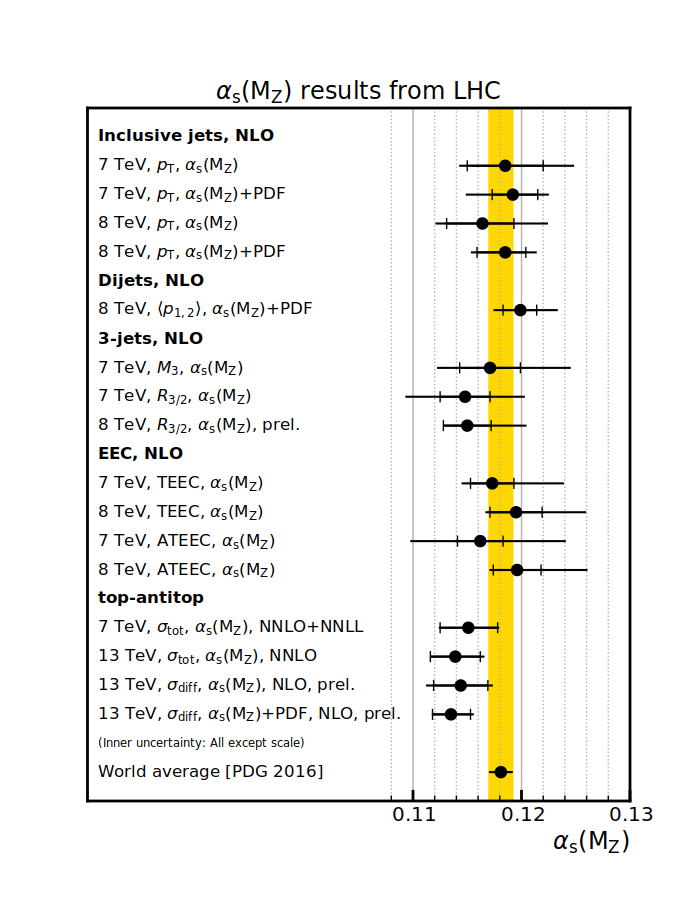
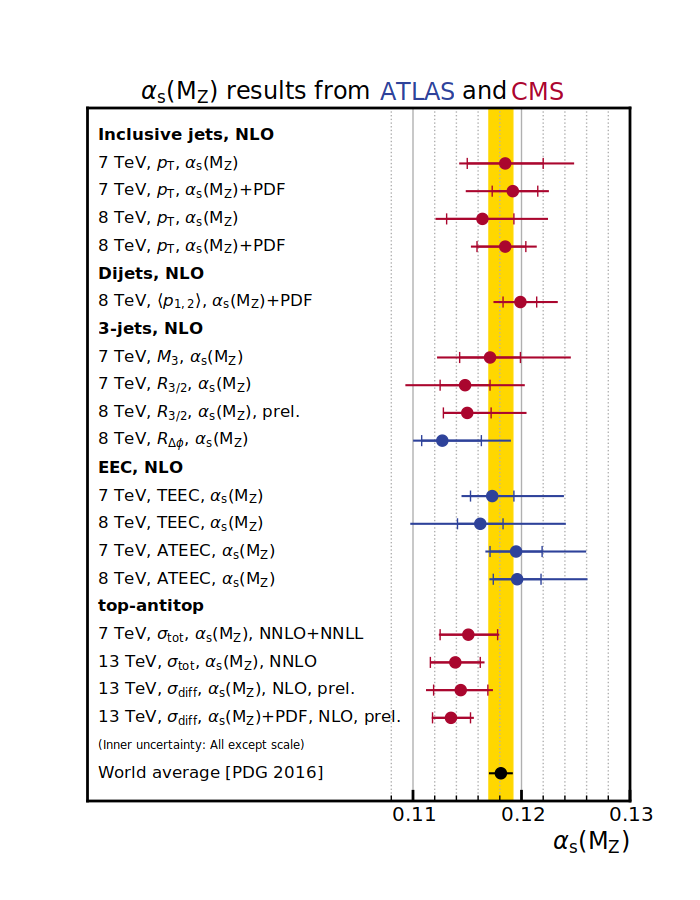
Fix asmz plot

diff --git a/tools/plotting/asmz_lhc.py b/tools/plotting/asmz_lhc.py
@@ -37,26 +37,46 @@ class ScalarFormatterForceFormat(ScalarFormatter):
 
 
 # Some global definitions 0.1181, 11
+_myred = '#aa062e'
+_myblue = '#2e429a'
 _asmz_label = r'$\alpha_\mathrm{s}(\mathrm{M}_\mathrm{Z})$'
 _asmz_dlim = 0.0800
 _text_dlim = 0.0810
 _asmz_ulim = 0.1300
-_asmz = [0.1181, 0.1135, 0.1144, 0.1139, 0.1151,
-         0.1196, 0.1162, 0.1195, 0.1173,
-         0.1150, 0.1148, 0.1171, 0.1199, 0.1185, 0.1164, 0.1192, 0.1185]
-_ypos = [1, 3, 4, 5, 6, 8, 9, 10, 11, 13, 14, 15, 17, 19, 20, 21, 22]
-_dasmz_oth_up = [0, 18, 25, 23, 27,
-                 22, 21, 24, 20,
-                 22, 23, 28, 15, 19, 29, 23, 35]
-_dasmz_oth_dn = [0, 17, 25, 23, 26,
-                 22, 21, 24, 20,
-                 22, 23, 28, 16, 26, 33, 19, 35]
-_dasmz_scl_up = [11, 11, 16, 14, 9,
-                 61, 76, 60, 63,
-                 50, 50, 69, 31, 22, 53, 24, 53]
-_dasmz_scl_dn = [11, 5, 20, 1, 8,
-                 13, 61, 15, 20,
-                 0, 50, 40, 19, 18, 28, 39, 24]
+_ypos = [1, 3, 4, 5, 6, 8, 9, 10, 11, 13, 14, 15, 16, 18, 20, 21, 22, 23]
+_pdg = [1, 0, 0, 0, 0, 0, 0, 0, 0, 0, 0, 0, 0, 0, 0, 0, 0, 0]
+_cms = [0, 1, 1, 1, 1, 0, 0, 0, 0, 0, 1, 1, 1, 1, 1, 1, 1, 1]
+_atlas = [0, 0, 0, 0, 0, 1, 1, 1, 1, 1, 0, 0, 0, 0, 0, 0, 0, 0]
+_asmz = [0.1181,
+         0.1135, 0.1144, 0.1139, 0.1151,
+         0.1196, 0.1195, 0.1162, 0.1173,
+         0.1127,
+         0.1150, 0.1148, 0.1171, 0.1199,
+         0.1185, 0.1164, 0.1192, 0.1185]
+_dasmz_oth_up = [0,
+                 18, 25, 23, 27,
+                 22, 24, 21, 20,
+                 36,
+                 22, 23, 28, 15,
+                 19, 29, 23, 35]
+_dasmz_oth_dn = [0,
+                 17, 25, 23, 26,
+                 22, 24, 21, 20,
+                 19,
+                 22, 23, 28, 16,
+                 26, 33, 19, 35]
+_dasmz_scl_up = [11,
+                 11, 16, 14, 9,
+                 61, 60, 76, 63,
+                 52,
+                 50, 50, 69, 31,
+                 22, 53, 24, 53]
+_dasmz_scl_dn = [11,
+                 5, 20, 1, 8,
+                 13, 15, 61, 20,
+                 19,
+                 0, 50, 40, 19,
+                 18, 28, 39, 24]
 
 gs = gridspec.GridSpec(1, 1)
 fig = plt.figure(figsize=(7, 9))
@@ -71,7 +91,10 @@ ax.set_xticks([0.108, 0.112, 0.114, 0.116, 0.118,
 ax.tick_params(direction='in', which='both', labelsize='x-large')
 ax.tick_params(axis='x', which='minor', length=4)
 ax.tick_params(axis='x', which='major', length=8)
-ax.set_title('%s results from LHC' % _asmz_label, fontsize='xx-large')
+ax.set_title('%s results from            and         ' %
+             _asmz_label, fontsize='xx-large')
+ax.text(0.1070, 25.3, 'ATLAS', color=_myblue, fontsize='xx-large')
+ax.text(0.1190, 25.3, 'CMS', color=_myred, fontsize='xx-large')
 ax.set_xlim([_asmz_dlim, _asmz_ulim])
 ax.set_ylim([0, _ypos[-1]+2])
 ax.set_xlabel('%s' % _asmz_label, horizontalalignment='right',
@@ -81,7 +104,7 @@ ax.set_xlabel('%s' % _asmz_label, horizontalalignment='right',
 # ax.xaxis.set_major_formatter(xfmt)
 
 #_ypos = np.array(_ypos)-0.5
-ax.text(_text_dlim, 23, 'Inclusive jets, NLO',
+ax.text(_text_dlim, 24, 'Inclusive jets, NLO',
         fontsize='large', fontweight='bold', va='center')
 ax.text(_text_dlim,
         _ypos[-1], r'7 TeV, $p_\mathrm{T}$, $\alpha_\mathrm{s}(\mathrm{M}_\mathrm{Z})$', fontsize='large', va='center')
@@ -91,11 +114,11 @@ ax.text(_text_dlim,
         _ypos[-3], r'8 TeV, $p_\mathrm{T}$, $\alpha_\mathrm{s}(\mathrm{M}_\mathrm{Z})$', fontsize='large', va='center')
 ax.text(_text_dlim,
         _ypos[-4], r'8 TeV, $p_\mathrm{T}$, $\alpha_\mathrm{s}(\mathrm{M}_\mathrm{Z})$+PDF', fontsize='large', va='center')
-ax.text(_text_dlim, 18, 'Dijets, NLO', fontsize='large',
+ax.text(_text_dlim, 19, 'Dijets, NLO', fontsize='large',
         fontweight='bold', va='center')
 ax.text(_text_dlim,
         _ypos[-5], r'8 TeV, $\left<p_\mathrm{1,2}\right>$, $\alpha_\mathrm{s}(\mathrm{M}_\mathrm{Z})$+PDF', fontsize='large', va='center')
-ax.text(_text_dlim, 16, '3-jets, NLO', fontsize='large',
+ax.text(_text_dlim, 17, '3-jets, NLO', fontsize='large',
         fontweight='bold', va='center')
 ax.text(_text_dlim,
         _ypos[-6], r'7 TeV, $M_3$, $\alpha_\mathrm{s}(\mathrm{M}_\mathrm{Z})$', fontsize='large', va='center')
@@ -103,26 +126,28 @@ ax.text(_text_dlim,
         _ypos[-7], r'7 TeV, $R_{3/2}$, $\alpha_\mathrm{s}(\mathrm{M}_\mathrm{Z})$', fontsize='large', va='center')
 ax.text(_text_dlim,
         _ypos[-8], r'8 TeV, $R_{3/2}$, $\alpha_\mathrm{s}(\mathrm{M}_\mathrm{Z})$, prel.', fontsize='large', va='center')
+ax.text(_text_dlim,
+        _ypos[-9], r'8 TeV, $R_{\Delta\phi}$, $\alpha_\mathrm{s}(\mathrm{M}_\mathrm{Z})$', fontsize='large', va='center')
 ax.text(_text_dlim, 12, r'EEC, NLO',
         fontsize='large', fontweight='bold', va='center')
 ax.text(_text_dlim,
-        _ypos[-9], r'7 TeV, TEEC, $\alpha_\mathrm{s}(\mathrm{M}_\mathrm{Z})$', fontsize='large', va='center')
+        _ypos[-10], r'7 TeV, TEEC, $\alpha_\mathrm{s}(\mathrm{M}_\mathrm{Z})$', fontsize='large', va='center')
 ax.text(_text_dlim,
-        _ypos[-10], r'8 TeV, TEEC, $\alpha_\mathrm{s}(\mathrm{M}_\mathrm{Z})$', fontsize='large', va='center')
+        _ypos[-11], r'8 TeV, TEEC, $\alpha_\mathrm{s}(\mathrm{M}_\mathrm{Z})$', fontsize='large', va='center')
 ax.text(_text_dlim,
-        _ypos[-11], r'7 TeV, ATEEC, $\alpha_\mathrm{s}(\mathrm{M}_\mathrm{Z})$', fontsize='large', va='center')
+        _ypos[-12], r'7 TeV, ATEEC, $\alpha_\mathrm{s}(\mathrm{M}_\mathrm{Z})$', fontsize='large', va='center')
 ax.text(_text_dlim,
-        _ypos[-12], r'8 TeV, ATEEC, $\alpha_\mathrm{s}(\mathrm{M}_\mathrm{Z})$', fontsize='large', va='center')
+        _ypos[-13], r'8 TeV, ATEEC, $\alpha_\mathrm{s}(\mathrm{M}_\mathrm{Z})$', fontsize='large', va='center')
 ax.text(_text_dlim,  7, r'top-antitop',
         fontsize='large', fontweight='bold', va='center')
 ax.text(_text_dlim,
-        _ypos[-13], r'7 TeV, $\sigma_\mathrm{tot}$, $\alpha_\mathrm{s}(\mathrm{M}_\mathrm{Z})$, NNLO+NNLL', fontsize='large', va='center')
+        _ypos[-14], r'7 TeV, $\sigma_\mathrm{tot}$, $\alpha_\mathrm{s}(\mathrm{M}_\mathrm{Z})$, NNLO+NNLL', fontsize='large', va='center')
 ax.text(_text_dlim,
-        _ypos[-14], r'13 TeV, $\sigma_\mathrm{tot}$, $\alpha_\mathrm{s}(\mathrm{M}_\mathrm{Z})$, NNLO', fontsize='large', va='center')
+        _ypos[-15], r'13 TeV, $\sigma_\mathrm{tot}$, $\alpha_\mathrm{s}(\mathrm{M}_\mathrm{Z})$, NNLO', fontsize='large', va='center')
 ax.text(_text_dlim,
-        _ypos[-15], r'13 TeV, $\sigma_\mathrm{diff}$, $\alpha_\mathrm{s}(\mathrm{M}_\mathrm{Z})$, NLO, prel.', fontsize='large', va='center')
+        _ypos[-16], r'13 TeV, $\sigma_\mathrm{diff}$, $\alpha_\mathrm{s}(\mathrm{M}_\mathrm{Z})$, NLO, prel.', fontsize='large', va='center')
 ax.text(_text_dlim,
-        _ypos[-16], r'13 TeV, $\sigma_\mathrm{diff}$, $\alpha_\mathrm{s}(\mathrm{M}_\mathrm{Z})$+PDF, NLO, prel.', fontsize='large', va='center')
+        _ypos[-17], r'13 TeV, $\sigma_\mathrm{diff}$, $\alpha_\mathrm{s}(\mathrm{M}_\mathrm{Z})$+PDF, NLO, prel.', fontsize='large', va='center')
 ax.text(_text_dlim, 2, '(Inner uncertainty: All except scale)',
         fontsize='small', va='center')
 ax.text(_text_dlim, 1,
@@ -134,10 +159,22 @@ xerr_oth = np.array(xerr_oth)/10000.
 xerr_scl = np.array(xerr_scl)/10000.
 xerr_tot = np.sqrt(xerr_oth*xerr_oth+xerr_scl*xerr_scl)
 
-ax.errorbar(_asmz, _ypos, xerr=xerr_oth, marker='o', markersize=8,
+_pdg = np.array(_pdg)
+_cms = np.array(_cms)
+_atlas = np.array(_atlas)
+
+ax.errorbar(_asmz*_pdg, _ypos*_pdg, xerr=xerr_oth*_pdg, marker='o', markersize=8,
             capsize=4, color='black', linestyle='none')
-ax.errorbar(_asmz, _ypos, xerr=xerr_tot, marker='', markersize=8,
+ax.errorbar(_asmz*_pdg, _ypos*_pdg, xerr=xerr_tot*_pdg, marker='', markersize=8,
             capsize=0, color='black', linestyle='none')
+ax.errorbar(_asmz*_cms, _ypos*_cms, xerr=xerr_oth*_cms, marker='o', markersize=8,
+            capsize=4, color=_myred, linestyle='none')
+ax.errorbar(_asmz*_cms, _ypos*_cms, xerr=xerr_tot*_cms, marker='', markersize=8,
+            capsize=0, color=_myred, linestyle='none')
+ax.errorbar(_asmz*_atlas, _ypos*_atlas, xerr=xerr_oth*_atlas, marker='o', markersize=8,
+            capsize=4, color=_myblue, linestyle='none')
+ax.errorbar(_asmz*_atlas, _ypos*_atlas, xerr=xerr_tot*_atlas, marker='', markersize=8,
+            capsize=0, color=_myblue, linestyle='none')
 ax.axvspan(_asmz[0]-xerr_tot[0, 0], _asmz[0]+xerr_tot[1, 0], color='gold')
 
 figname = 'asmz_lhc'
